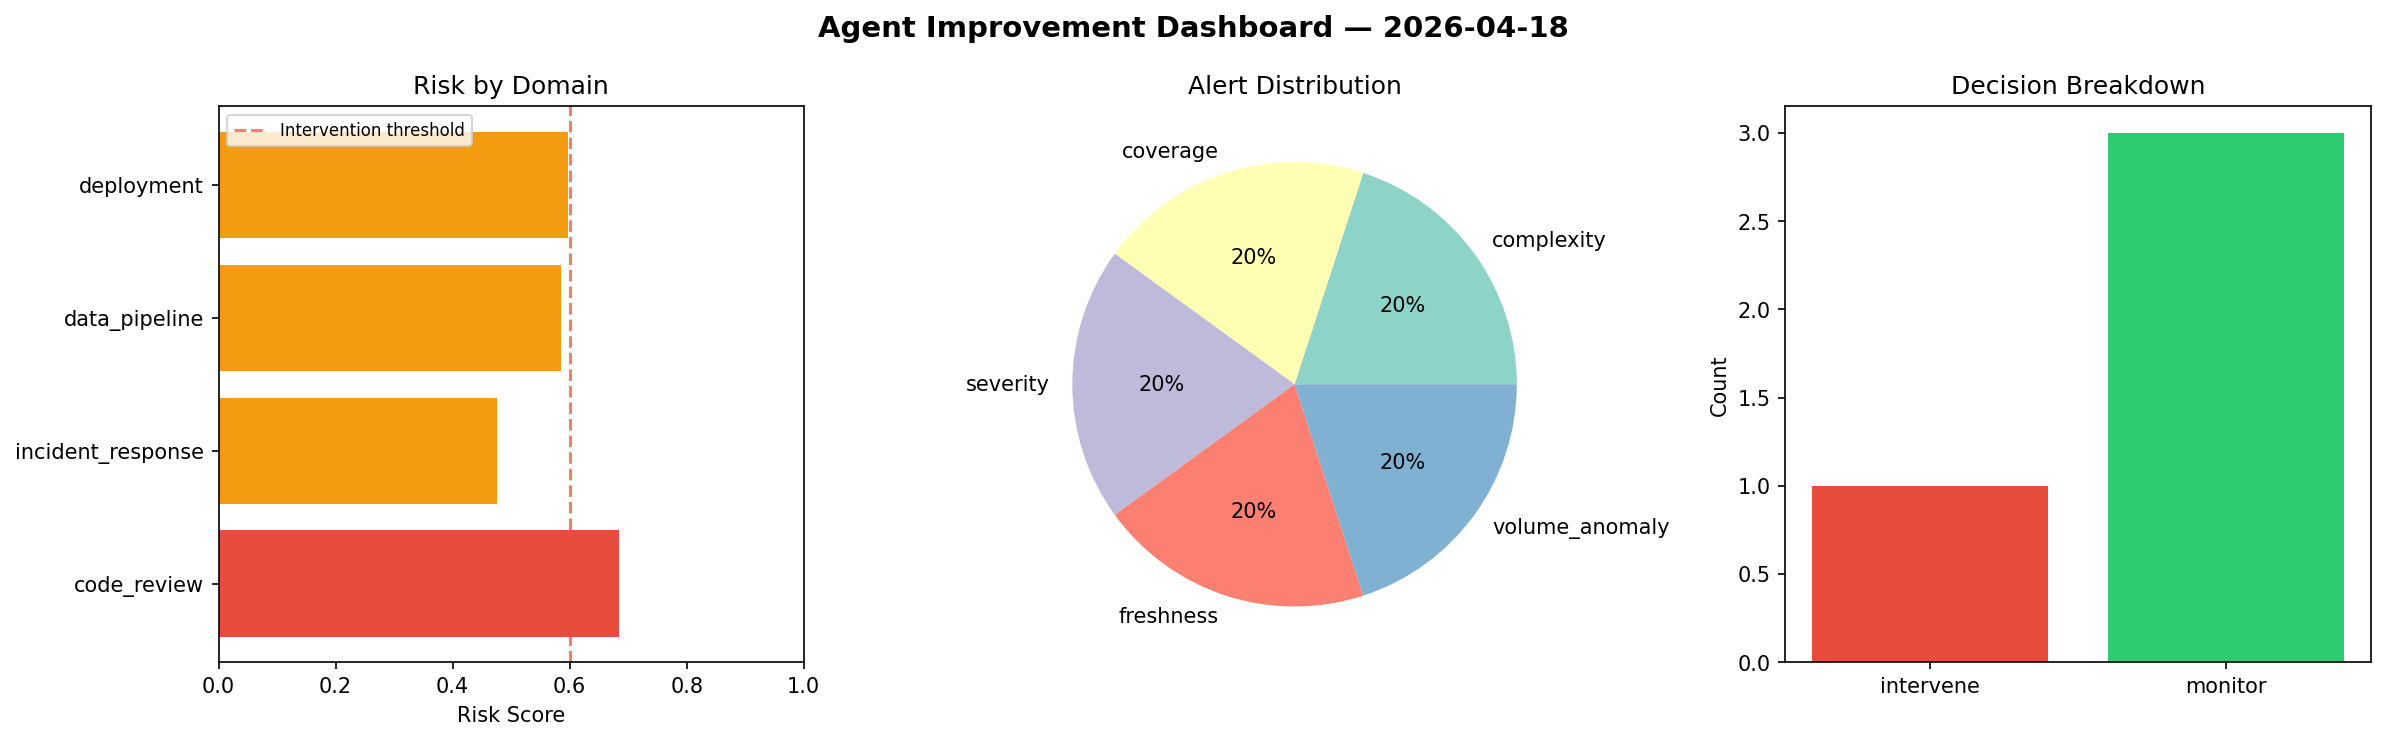
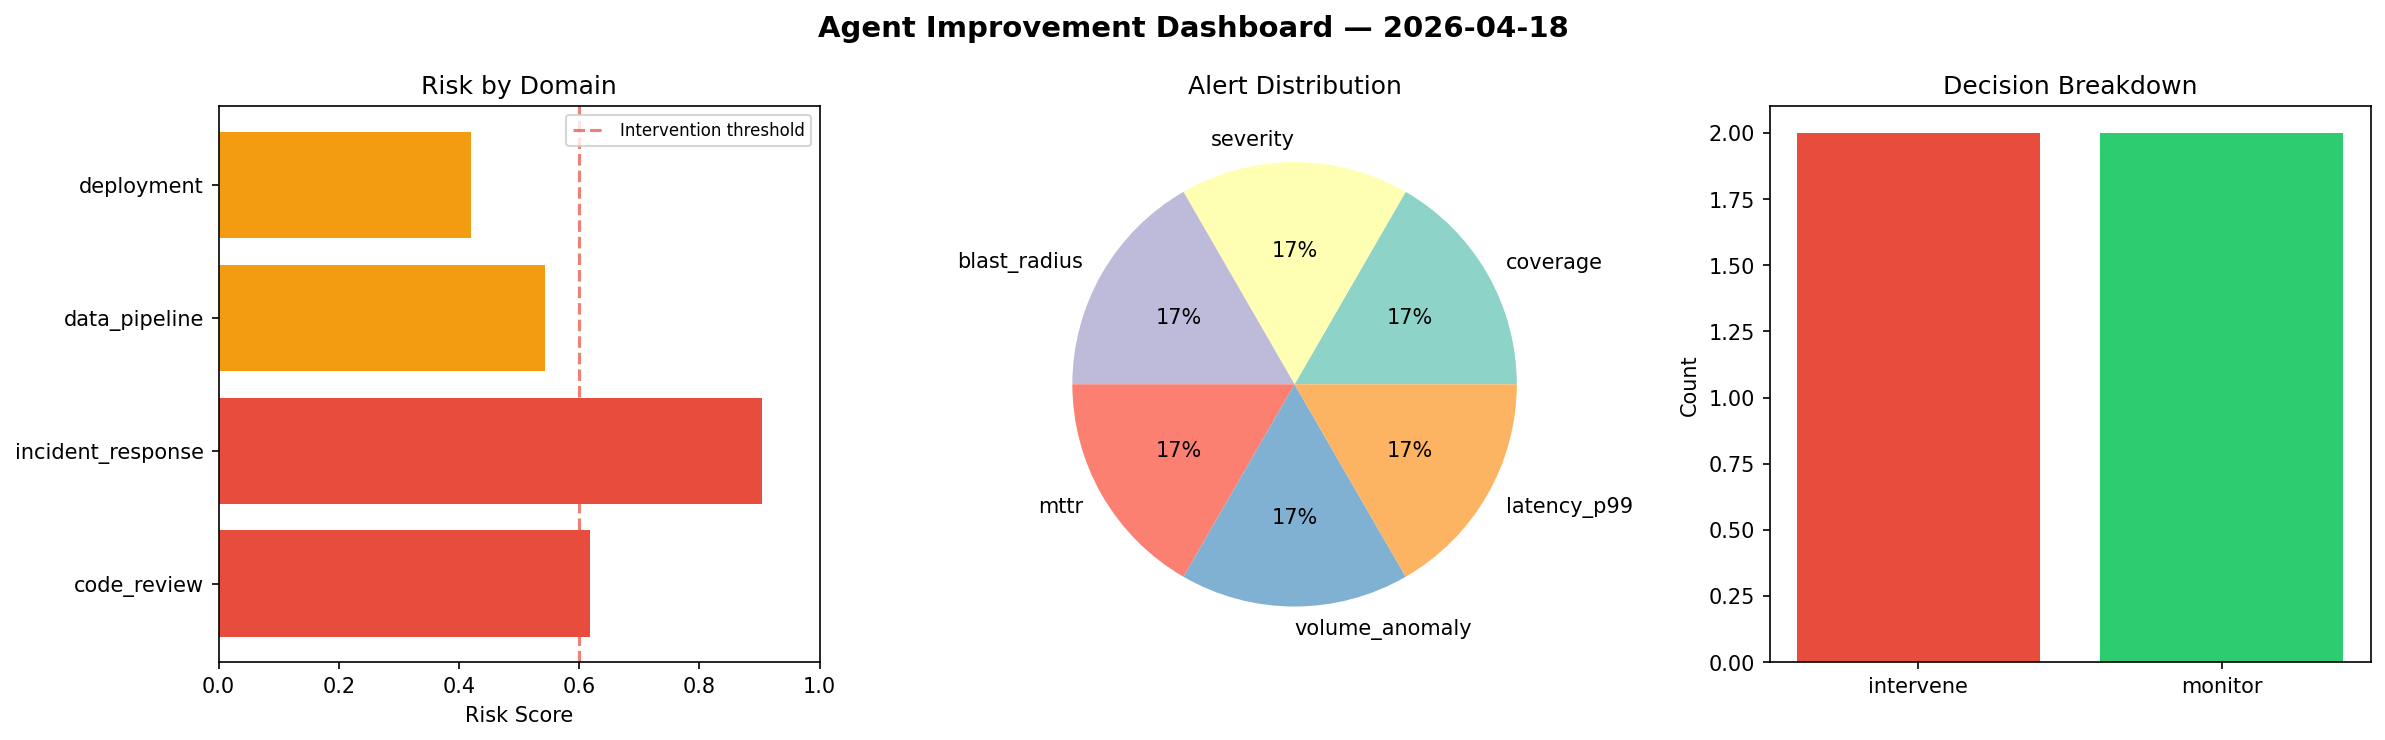
agent-improvement: daily cycle 2026-04-18T09:05

diff --git a/logs/2026-04-18.md b/logs/2026-04-18.md
@@ -1,6 +1,6 @@
 # Agent Improvement Report — 2026-04-18
 
-**Cycle ID:** `b7e78de5` | **Avg Risk:** 0.5856 | **Interventions:** 1/4
+**Cycle ID:** `7a586985` | **Avg Risk:** 0.6212 | **Interventions:** 2/4
 
 ![Dashboard](2026-04-18_dashboard.png)
 
@@ -10,18 +10,18 @@
 
 | Domain | Risk Score | Decision | Alerts |
 |--------|-----------|----------|--------|
-| code_review | 0.6845 | intervene | complexity, coverage |
-| incident_response | 0.4754 | monitor | severity |
-| data_pipeline | 0.586 | monitor | freshness, volume_anomaly |
-| deployment | 0.5965 | monitor | none |
+| code_review | 0.6175 | intervene | coverage |
+| incident_response | 0.9042 | intervene | severity, blast_radius, mttr |
+| data_pipeline | 0.5439 | monitor | volume_anomaly |
+| deployment | 0.4193 | monitor | latency_p99 |
 
 ## Delta vs Yesterday
 
 | Domain | Today | Yesterday | Change |
 |--------|-------|-----------|--------|
-| code_review | 0.6845 | 0.6327 | 📈 8.2% |
-| incident_response | 0.4754 | 0.3795 | 📈 25.3% |
-| data_pipeline | 0.586 | 0.3673 | 📈 59.5% |
-| deployment | 0.5965 | 0.4563 | 📈 30.7% |
+| code_review | 0.6175 | 0.6327 | 📉 -2.4% |
+| incident_response | 0.9042 | 0.3795 | 📈 138.3% |
+| data_pipeline | 0.5439 | 0.3673 | 📈 48.1% |
+| deployment | 0.4193 | 0.4563 | 📉 -8.1% |
 
 **Refinement:** `{'adjustment': 'maintain', 'trend': 'improving', 'window': 4}`
